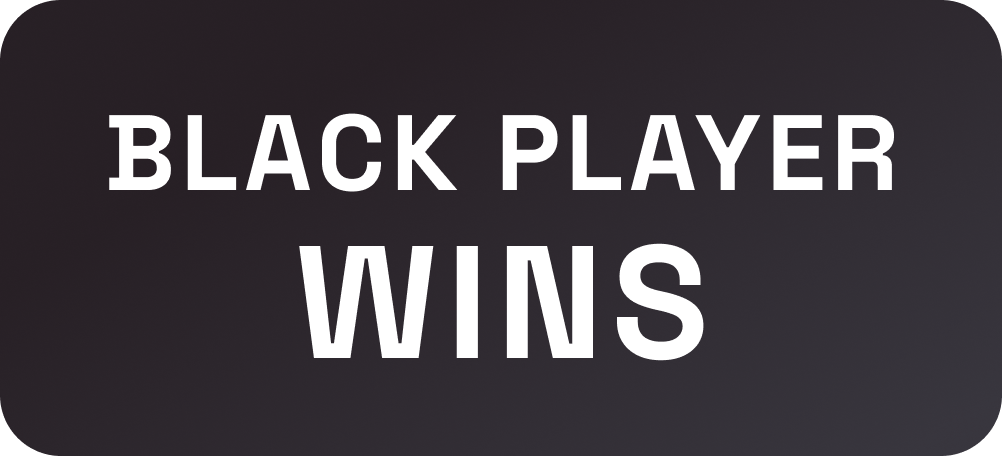
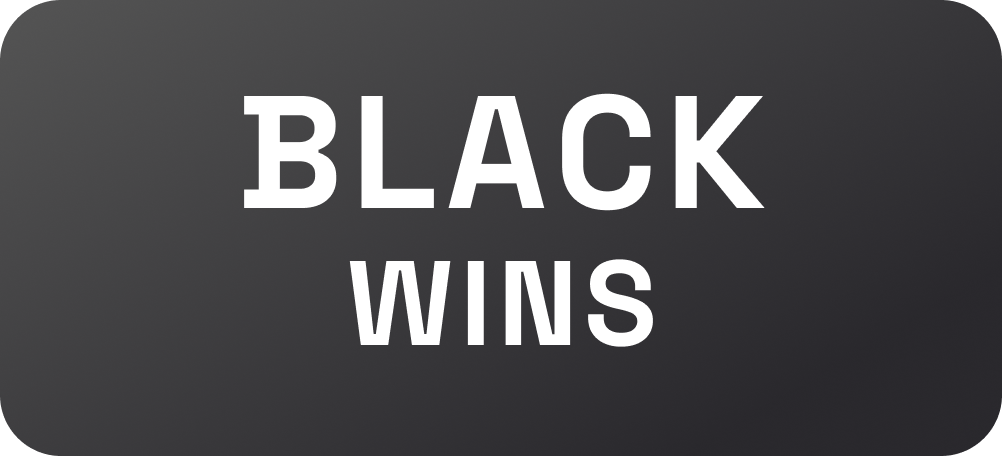
game result

diff --git a/src/MainPackage/GameActions.java b/src/MainPackage/GameActions.java
@@ -6,15 +6,8 @@ import java.awt.*;
 import java.awt.event.MouseEvent;
 import java.awt.event.MouseListener;
 
-public class GameActions {package MainPackage;
+public class GameActions implements MouseListener{
 
-import javax.swing.*;
-import javax.swing.border.EmptyBorder;
-import java.awt.*;
-import java.awt.event.MouseEvent;
-import java.awt.event.MouseListener;
-
-    public class Promote implements MouseListener {
         JFrame frame;
         private JPanel promotePanel;
         private JLayeredPane base ;
@@ -80,12 +73,12 @@ import java.awt.event.MouseListener;
 //        frame.setAlwaysOnTop(true);
 //        frame.setVisible(true);
 //    }
-        public void promotionWindow(int color){
+        public void promotionWindow(boolean side){
             initializeWindow();
             setPromoteBackG();
             setPromotePanel();
             setpromoteHeader();
-            setBtns( color );
+            setBtns(side);
 
             frame.add(base);
             frame.setVisible(true);
@@ -133,15 +126,15 @@ import java.awt.event.MouseListener;
             //System.out.println("55");
 
         }
-        private void setBtns( int color ){
+        private void setBtns(boolean side){
             btnsPromote = new JPanel();
             btnsPromote.setBorder(new EmptyBorder(20 *width/1440,20 *width/1440,20 *width/1440,20 *width/1440));
             btnsPromote.setLayout(new GridLayout(0,4, 10 *width/1440, 0));
             btnsPromote.setOpaque(false);
             //Should be if statement to decide wether they are black or white
-            if(color == 1)
+            if(side)
                 makeWhiteBtns();
-            else if(color == 2)
+            else if(side)
                 makeBlackBtns();
             promotePanel.add(btnsPromote, BorderLayout.SOUTH);
             System.out.println("322");
@@ -180,7 +173,6 @@ import java.awt.event.MouseListener;
             initializeResultFrame();
             checkResult(i);
             frame.setVisible(true);
-
         }
         private void initializeResultFrame(){
             frame = new JFrame();
@@ -205,15 +197,7 @@ import java.awt.event.MouseListener;
                     resultLabel.setIcon(ic.resizeWithRatio(ic.bWin));
                     break;
             }
-
             frame.add(resultLabel);
-        }
-
-
-
-        public static void main(String[] args) {
-            MainPackage.Promote P = new MainPackage.Promote();
-            P.promotionWindow(1);
         }
         @Override
         public void mouseClicked(MouseEvent e) {
@@ -236,9 +220,10 @@ import java.awt.event.MouseListener;
                 System.out.println("Rook");
                 selected = 1;
                 promoteDispose();
-            }if ((e.getSource()== resultLabel)){
+            }if ((e.getSource() == resultLabel)){
                 frame.dispose();
                 System.out.println("aaa");
+                return;
             }
 
             gl.promote(gl.posProm,gl.turnProm,selected);
@@ -263,6 +248,9 @@ import java.awt.event.MouseListener;
         public void mouseExited(MouseEvent e) {
 
         }
+        public static void main(String[] args)
+        {
+            GameActions g = new GameActions();
+            g.showResult(0);
+        }
     }
-
-}

diff --git a/src/MainPackage/GameLauncher.java b/src/MainPackage/GameLauncher.java
@@ -5,9 +5,7 @@
 
 package MainPackage;
 
-import java.util.ArrayList;
-import java.util.Iterator;
-import java.util.Objects;
+import java.util.*;
 
 public class GameLauncher {
     static public ChessBoard game = new ChessBoard();
@@ -15,7 +13,8 @@ public class GameLauncher {
     public Piece selected;
     public String posProm;
     public boolean turnProm;
-    public Promote promotion;
+    public GameActions promotion;
+    public GameActions result;
     public boolean turn;
     public GameLauncher() {
         this.game.setClock(this);
@@ -111,7 +110,15 @@ public class GameLauncher {
         kingEscape(turn);
         handlingMove(clickedSquare);
         checkPromotion(!turn);
-        System.out.println(checkWinner(turn));
+        isEndGame(turn);
+    }
+    private void isEndGame(boolean turn){
+        if(checkWinner(turn) == (Object) true){
+            promotion.showResult(1);
+        }
+        else if(checkWinner(turn) == (Object) false){
+            promotion.showResult(-1);
+        }
     }
     private Piece getPiece(String pos){
         for(Piece p : pieces){
@@ -121,14 +128,14 @@ public class GameLauncher {
         return null;
     }
     private void checkPromotion(boolean turn){
-        promotion = new Promote(turn);
+        promotion = new GameActions();
         this.promotion.gl = this;
         if(getPromoted(turn) != null)
         {
             posProm = Objects.requireNonNull(getPromoted(turn)).position;
             turnProm = turn;
             removePiece(posProm);
-            promotion.promotionWindow();
+            promotion.promotionWindow(turn);
         }
     }
     public void promote(String pos,boolean side,int id){
@@ -151,7 +158,6 @@ public class GameLauncher {
         }
         return null;
     }
-
     public ArrayList<String> possession(boolean side){
         ArrayList<String> result = new ArrayList<>();
         for(Piece p : pieces){
@@ -169,7 +175,10 @@ public class GameLauncher {
     private ArrayList<String> kingMoves(boolean side){
         for(Piece p : pieces){
             if(p.pieceSide == side && p.id == 5){
-                return p.ValidMoves();
+                ArrayList<String> result =  new ArrayList<String>();
+                result.addAll(p.eating);
+                result.addAll(p.movable());
+                return result;
             }
         }
         return null;

diff --git a/src/MainPackage/IconsAndColors.java b/src/MainPackage/IconsAndColors.java
@@ -128,10 +128,8 @@ public class IconsAndColors {
         whiteRookP = new ImageIcon("src/Mat/Comp/game/promote/WhiteRookP.png");
 
         wWin = new ImageIcon("src/Mat/Comp/game/Wwin.png");
-        bWin = new ImageIcon("src/Mat/Comp/game/Bwin.png");
+        bWin = new ImageIcon("src/Mat/Comp/game/bWin.png");
         draw = new ImageIcon("src/Mat/Comp/game/draw.png");
-
-
     }
 
     public ImageIcon Resize(ImageIcon icon, int width, int height){

diff --git a/src/MainPackage/Piece.java b/src/MainPackage/Piece.java
@@ -75,6 +75,14 @@ public abstract class Piece {
                 moving.add(availableMoves.get(i));
         }
     }
+    public ArrayList<String> movable(){
+        ArrayList<String> result = new ArrayList<String>();
+        for(String m : moving){
+            if(Board.isAlly(position,m) == null)
+                result.add(m);
+        }
+        return result;
+    }
 }
 
 class bishop extends Piece {

diff --git a/src/MainPackage/Promote.java b/src/MainPackage/Promote.java
@@ -119,7 +119,6 @@ public class Promote implements MouseListener {
             selected = 1;
             promoteDispose();
         }
-
         gl.promote(gl.posProm,gl.turnProm,selected);
     }
 
